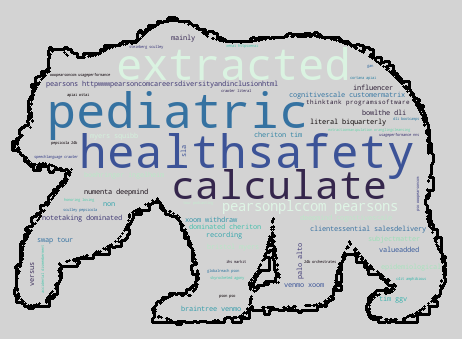
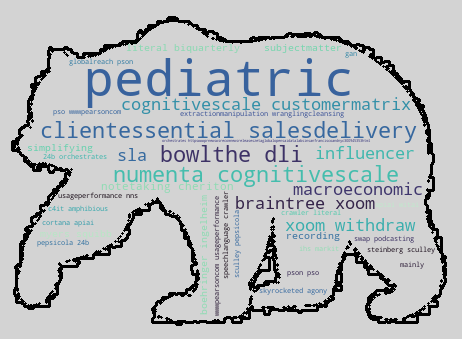
finished parsing monograms down to markit; improved timing

Changed region(s): [[0.0606, 0.0885, 0.9394, 0.944], [0.8182, 0.8555, 0.8788, 0.9145]]

diff --git a/nlp_main.py b/nlp_main.py
@@ -467,7 +467,7 @@ def clean_for_nlp(series_of_interest):
                                             'rely', 'bold', 'equality', 'fashion', 'integral', 'requested', 'evolution', 
                                             'appropriately', 'valid', 'advice', 'adhere', 'creatively', 'discus', 'exception',
                                             'actuarial', 'collective', 'coordinating', 'addressing', '9', 'motor', 'assisting',
-                                            'biomedical', 'targeting', 'screen', 'maximum', 'cultural', 'promise',
+                                            'biomedical', 'targeting', 'screen', 'cultural', 'promise',
                                             'initial', 'wayfair', 'living', 'ops', 'concern', 'cell', 'music', 'stipend', 'invite',
                                             'determined', 'profiling', 'eye', 'multitask', 'merit', 'represents', 'assessing',
                                             'emergency', 'freedom', 'numerous', 'friendly', 'technologist', 'permanent',
@@ -939,7 +939,59 @@ def clean_for_nlp(series_of_interest):
                                             'hampshire', 'verizons', 'mitigating', 'syndicated', 'ball', 'xandr', '65',
                                             'tabular', 'abstraction', 'adjusting', 'alight', 'vancouver', 'grammar', 'valuing',
                                             'thursdayfriday', 'smile', 'conceive', 'baseball', 'deere', 'eventually', 'vernacular',
-                                            'macys', 'differentiate', 'install', 'actuary', 'traditionally']))) + ds_skills_combined
+                                            'macys', 'differentiate', 'install', 'actuary', 'traditionally', 'meetups', '22000',
+                                            '4000', 'earning', 'rsm', 'emory', 'iclr', 'transitioned', 'atmospheric', 'tlfs',
+                                            'bd', 'seta', 'shouldnt', 'recording', 'evangelizing', 'indoor', 'mfdv', 'partnered',
+                                            '25000', 'mvc', 'precaution', 'preventing', 'tenuretrack', 'prosper', 'rise', 'mainly',
+                                            'soccer', 'immune', 'tone', 'israel', 'notetaking', 'peoplefirst', 'hartford',
+                                            'stateofthe', 'emerson', 'biased', 'meta', 'partial', 'crack', 'disney', 'undefined',
+                                            'consuming', 'q', 'photography',  'digging', 'silo', 'cloudformation', 'town',
+                                            'formally', 'congestion', 'iac', 'redesigning', 'insurtech', 'node', 'programmatically',
+                                            'lilly', 'gc', 'eisai', 'allocate', 'iv', 'turnaround', 'unite', 'landing', 'unlike',
+                                            'tied', 'fly', 'fiscalnote', 'thereto', 'tesla', 'cheriton', 'celebration', 'bench',
+                                            'fastgrowth', 'tutorial', 'differentiating', 'trail', 'knowledgebase', 'integer',
+                                            'nonstandard', 'penetration', 'monetize', 'simplifying', 'employeeowned', 'bond',
+                                            'ruthlessly', 'celestar', 'embodies', 'proc', 'cold', 'iri', 'banner', 'c3', 'sea',
+                                            'clientessential', 'salesdelivery', 'encompass', 'neurodiversity', 'palo', 'dli',
+                                            'honored', 'observe', 'epidemiologic', 'wellorganized', 'freddie', 'skyrocketed',
+                                            'viewing', 'minitab', 'antibody', 'historian', '14000', 'reproductive', 'refined',
+                                            'wellknown', '2030', 'intense', 'attraction', 'numenta', 'populate', 'ryders',
+                                            'caliber', 'endura', 'volunteerism', 'chemours', 'convergence', 'nm', 'forming',
+                                            'yale', 'influencers', 'crowd', 'dutiesresponsibilities', 'bowlthe', '10x', 'millennials',
+                                            'pediatric', 'commonwealth', 'aggressively', 'enterprisescale', 'customermatrix',
+                                            'cognitivescale', 'candid', 'ed', 'marginalized', 'dependable', 'unemployment', 'pmo',
+                                            'pretty', 'homebased', '50000', 'hosted', 'experienceknowledge', 'productize',
+                                            'radical', 'oracleteradata', '1159', 'renaissance', 'abbott', 'lp', 'advertised',
+                                            'containing', 'voted', 'powerapps', 'highfrequency', 'finetuning', 'preliminary',
+                                            '26500', 'saiccom', 'pitch', 'vault', 'marsh', 'substantive', 'fascinating', 'trace',
+                                            'wallet', 'springfield', 'domestically', 'impressive', 'cumulative', 'encore',
+                                            'inefficiency', 'entering', 'behaviour', 'withdraw', 'wellfunded', 'infection',
+                                            'devoted', 'userfacing', 'knocking', 'ok', 'anytime', 'mar', 'excluded', 'delve',
+                                            'physiology', 'exploiting', '85', 'fusing', 'enjoying', 'eagerly', 'customerdriven',
+                                            'cortana', 'sec', 'resonates', 'assembling', 'deepdive', 'hunger', 'uma', 'scholarly',
+                                            'mentioned', 'constellation', 'blending', 'trainer', 'accomplishing', 'bolster', 'ft',
+                                            'playstation', 'pursues', 'knowledgeexperience', 'bending', 'pre', 'escalates',
+                                            'copied', 'firstclass', 'lactation', 'burden', 'alamo', 'wwwgettyimagescom', 'needing',
+                                            'incurs', 'financials', 'donor', 'communicative', 'apl', 'conform', 'viability',
+                                            'xoom', 'braintree', 'amelia', 'pypl', 'origination', 'ear', 'deductible', 'hubspot',
+                                            'friction', 'physiological', 'netflix', 'mf', 'born', 'biquarterly', 'diabetes',
+                                            'richmond', 'warranty', 'loving', 'needle', 'electricity', 'attest', 'legallyrequired',
+                                            'seismic', 'believing', 'aging', 'runtimes', 'udemy', 'crederas', 'payor', 'li',
+                                            'undergo', 'societal', 'lawful', 'appraisal', 'boehringer', 'selects', 'literal',
+                                            'turnover', 'legible', 'traceability', 'healthiest', 'adequately', 'absolutely',
+                                            'finished', 'sight', 'ea_exphire', 'programme', 'outdoor', 'decker', 'everest',
+                                            'irving', 'candidly', 'influencer', 'specie', 'dba', 'lost', 'bullet', 'educates',
+                                            'interpreter', '10000000', 'register', 'firstofitskind', 'pepsicola', 'phenomenon',
+                                            'bend', 'metabolic', '48', 'statutory', 'bound', 'compensate', 'negotiating',
+                                            'businessrelated', 'unrelated', 'resourcefulness', 'headspace', 'chef', 'quant',
+                                            'governmental', 'northeastern', 'ri', 'repayment', 'tusimple', 'miner', 'attorney',
+                                            'arc', 'bridging', 'myriad', 'solicitation', 'adviser', 'squibb', 'retrieving',
+                                            'seeyourselfcignacom', 'colour', 'annotated', 'alcohol', 'bethesda', 'powerhouse',
+                                            'crawler', 'slas', 'ref', '24b', 'advantageous', 'softwaretools', 'dsi', 'island',
+                                            'moveworks', 'bottomline', 'permanently', 'accessed', 'edc', 'limc1', 'selfsufficient',
+                                            'saint', 'grad', 'pubsub', 'elder', 'onpoint', 'entered', 'cleared', 'upsell',
+                                            'nudge', '47', 'transcriptomics', 'preview', 'gadget', 'overarching', 'od',
+                                            'frontline', 'ethically', 'pragmatism', 'elasticity', 'markit']))) + ds_skills_combined
     
     stop_words = nltk.corpus.stopwords.words('english') + additional_stopwords + ds_cred_terms + ds_prof_skill_terms + ds_soft_skill_terms + ds_tech_skill_terms
     
@@ -948,7 +1000,7 @@ def clean_for_nlp(series_of_interest):
     text = (unicodedata.normalize('NFKD', text).encode('ascii', 'ignore').decode('utf-8', 'ignore').lower())
     words = re.sub(r'[^\w\s]', '', text).split()
     
-    # initialize lemmatizer and execute lemmatization
+    # initialize lemmatizer and execute lemmatization; this is the sloest part of the processing
     print('Lemmatizing...')
     wnl = nltk.stem.WordNetLemmatizer()
     terms_for_nlp = [wnl.lemmatize(word) for word in words if word not in stop_words]
@@ -956,6 +1008,7 @@ def clean_for_nlp(series_of_interest):
     # execute post-lemmatization stopword removal to drop unnecessary lemma
     print('Post-lemmatization stopword removal...')
     terms_for_nlp = [x for x in terms_for_nlp if x not in additional_stopwords]
+    print(f'\nLemmatization Time: {(time.time() - start_time) / 60:.2f} minutes')
     
     print(f'\Processing Time to Here: {(time.time() - start_time) / 60:.2f} minutes')
     
@@ -1241,11 +1294,14 @@ ds_cred_terms = ['ability',
                  'analytics',
                  'associate',
                  'bachelor',
+                 'bachelorsmasters',
                  'biology',
                  'biological',
                  'bioinformatics',
+                 'biochemistry',
                  'bioscience',
                  'biostatistics',
+                 'biostatistical',
                  'biostatistician',
                  'biostatisticians',
                  'biotech',
@@ -1319,6 +1375,7 @@ ds_cred_terms = ['ability',
                  'militaryveteran', 
                  'molecular',
                  'msc',
+                 'msma',
                  'msphd',
                  'neuroscience',
                  'operation', 
@@ -1359,6 +1416,7 @@ ds_cred_terms = ['ability',
                  'software',
                  'solid', 
                  'statistic',
+                 'statisticalmathematical',
                  'statistics',
                  'statistician',
                  'stem',
@@ -1457,6 +1515,7 @@ ds_tech_skill_terms = ['ab',
                      'bitbucket',
                      'blockchain',
                      'bokeh',
+                     'boosted',
                      'boosting',
                      'breakthrough',
                      'build', 
@@ -1502,6 +1561,7 @@ ds_tech_skill_terms = ['ab',
                      'computing',
                      'concept',
                      'conceptual',
+                     'conda',
                      'confidence',
                      'confluence',
                      'constraint',
@@ -1514,6 +1574,8 @@ ds_tech_skill_terms = ['ab',
                      'correlate',
                      'correlation',
                      'cplex',
+                     'crf',
+                     'crfs',
                      'crm',
                      'cs',
                      'cuda',
@@ -1535,6 +1597,7 @@ ds_tech_skill_terms = ['ab',
                      'databricks',
                      'datacomputing',
                      'datadriven',
+                     'datafocused',
                      'dataoriented',
                      'datarobot',
                      'datascience',
@@ -1622,6 +1685,7 @@ ds_tech_skill_terms = ['ab',
                      'filtering',
                      'flask',
                      'flow',
+                     'flume',
                      'forecast',
                      'forecasting',
                      'forest',
@@ -1633,6 +1697,7 @@ ds_tech_skill_terms = ['ab',
                      'function',
                      'fundamental',
                      'fusion',
+                     'gans',
                      'generation',
                      'generated',
                      'generative',
@@ -1676,6 +1741,7 @@ ds_tech_skill_terms = ['ab',
                      'hpc',
                      'hpcml',
                      'html', 
+                     'html5',
                      'hyperparameter',
                      'hypothesis', 
                      'hypothesisdriven',
@@ -1721,6 +1787,7 @@ ds_tech_skill_terms = ['ab',
                      'kera',
                      'kibana',
                      'kmeans',
+                     'knime',
                      'knn',
                      'kotlin',
                      'kubeflow',
@@ -1739,6 +1806,7 @@ ds_tech_skill_terms = ['ab',
                      'lex',
                      'library',
                      'lifecycle',
+                     'likelihood',
                      'linear', 
                      'linearlogistic',
                      'linux',
@@ -1771,6 +1839,7 @@ ds_tech_skill_terms = ['ab',
                      'matplotlib', 
                      'matrix',
                      'maven',
+                     'maximum',
                      'measure',
                      'measurable',
                      'measurement',
@@ -1807,6 +1876,7 @@ ds_tech_skill_terms = ['ab',
                      'multiarm',
                      'multiarmed',
                      'multidimensional',
+                     'multiterabyte',
                      'multivariate',
                      'munging',
                      'mxnet',
@@ -1854,8 +1924,10 @@ ds_tech_skill_terms = ['ab',
                      'optimizing',
                      'oracle',
                      'orchestrate',
+                     'orchestrates', 
                      'orchestration',
                      'outlier',
+                     'paas',
                      'panda', 
                      'parallel',
                      'parametric',
@@ -1874,6 +1946,7 @@ ds_tech_skill_terms = ['ab',
                      'pivot', 
                      'pla',
                      'platform',
+                     'plc',
                      'plotly',
                      'plsql',
                      'postgres', 
@@ -1898,6 +1971,7 @@ ds_tech_skill_terms = ['ab',
                      'proficient',
                      'programing',
                      'programming', 
+                     'programmingscripting',
                      'python',
                      'pythonr',
                      'pyspark',
@@ -1915,6 +1989,7 @@ ds_tech_skill_terms = ['ab',
                      'radar',
                      'rd',
                      'random', 
+                     'randomized',
                      'raw',
                      'rdbms',
                      'rds',
@@ -1944,6 +2019,7 @@ ds_tech_skill_terms = ['ab',
                      'rigor',
                      'rigorous', 
                      'rnn',
+                     'rnns',
                      'robotics',
                      'rpa',
                      'rpython',
@@ -1988,7 +2064,9 @@ ds_tech_skill_terms = ['ab',
                      'segment',
                      'segmentation',
                      'semantic',
+                     'semantics', 
                      'semistructured',
+                     'semisupervised',
                      'sensing',
                      'sensor',
                      'sensing', 
@@ -2026,11 +2104,13 @@ ds_tech_skill_terms = ['ab',
                      'sqoop',
                      'ssis',
                      'stack',
+                     'stat',
                      'stats',
                      'statistic',
                      'statistically',
                      'statistics',
                      'statistical',
+                     'statisticalmathematical',
                      'statisticalmachine',
                      'statistician',
                      'stateoftheart',
@@ -2041,6 +2121,7 @@ ds_tech_skill_terms = ['ab',
                      'supervised', 
                      'supervises',
                      'svm',
+                     'svms',
                      'synthetic',
                      'system',
                      'table',
@@ -2063,6 +2144,7 @@ ds_tech_skill_terms = ['ab',
                      'theano',
                      'theoretical',
                      'theory',
+                     'tibco',
                      'time', 
                      'timeseries',
                      'timely',
@@ -2080,6 +2162,7 @@ ds_tech_skill_terms = ['ab',
                      'troubleshoot',
                      'troubleshooting', 
                      'tree',
+                     'treebased',
                      'trend',
                      'tsql',
                      'typescript',
@@ -2108,6 +2191,7 @@ ds_tech_skill_terms = ['ab',
                      'warfare',
                      'watson',
                      'web',
+                     'weka',
                      'wrangle',
                      'wrangling',
                      'xgboost',
@@ -2195,6 +2279,7 @@ ds_soft_skill_terms = ['ad',
                      'empathetic', 
                      'energetic', 
                      'enthusiasm',
+                     'entrepreneurship',
                      'environment',
                      'ethic',
                      'excellent',
@@ -2262,6 +2347,7 @@ ds_soft_skill_terms = ['ad',
                      'meet',
                      'meeting',
                      'member',
+                     'meticulous',
                      'minimal', 
                      'motivated',
                      'multidisciplinary',
@@ -2302,6 +2388,7 @@ ds_soft_skill_terms = ['ad',
                      'proactively',
                      'problem', 
                      'problemsolver',
+                     'problemsolvers',
                      'problemsolving',
                      'productive',
                      'productively',
@@ -2466,6 +2553,7 @@ ds_prof_skill_terms = ['ability',
                        'insight',
                        'interdisciplinary',
                        'jaic',
+                       'kaggle',
                        'kanban',
                        'knowledge',
                        'lead',
@@ -2550,6 +2638,7 @@ ds_prof_skill_terms = ['ability',
                        'strategist',
                        'stream',
                        'subject',
+                       'subjectmatter',
                        'success',
                        'supervise',
                        'supervises',
@@ -2619,7 +2708,9 @@ del df_raw, df_clean, n_gram_count, n_gram_range_start, n_gram_range_stop
 
 
 # close time calculation
+end_time = time.time()
 print(f'\nTotal Processing Time: {(time.time() - start_time) / 60:.2f} minutes')
+del start_time, end_time
 
 
 
